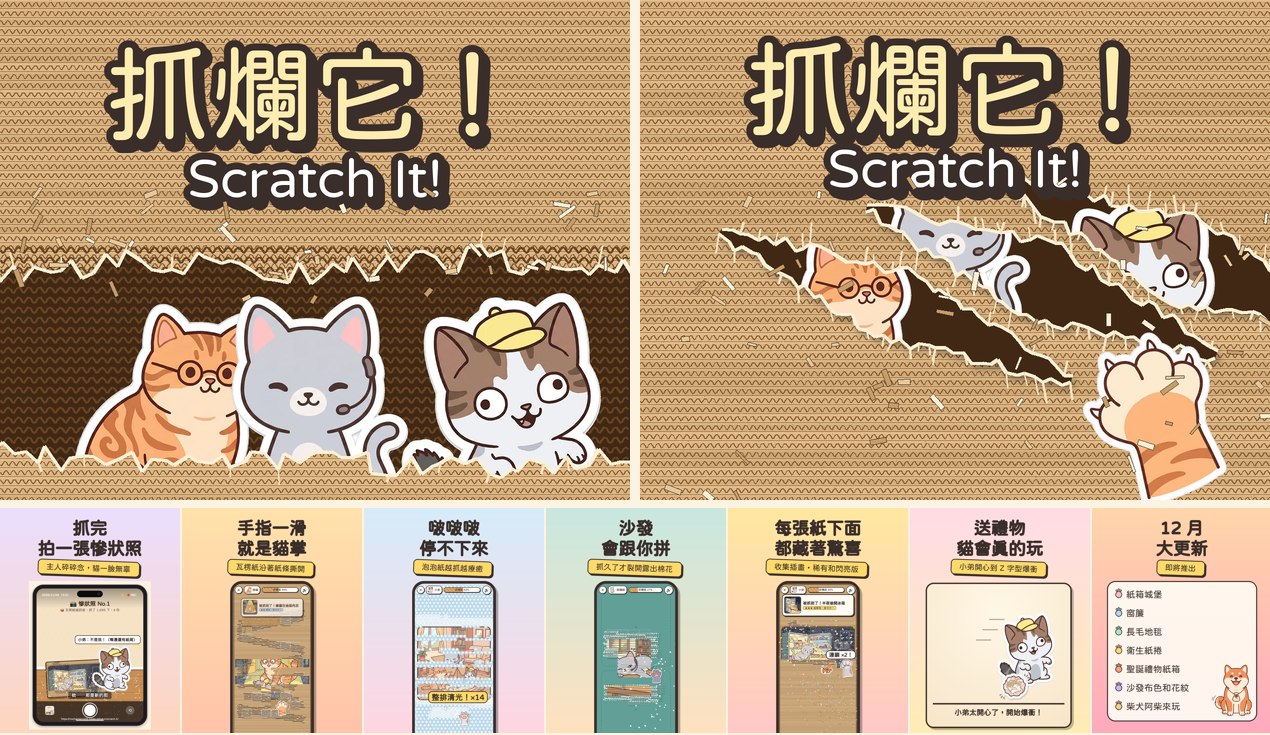
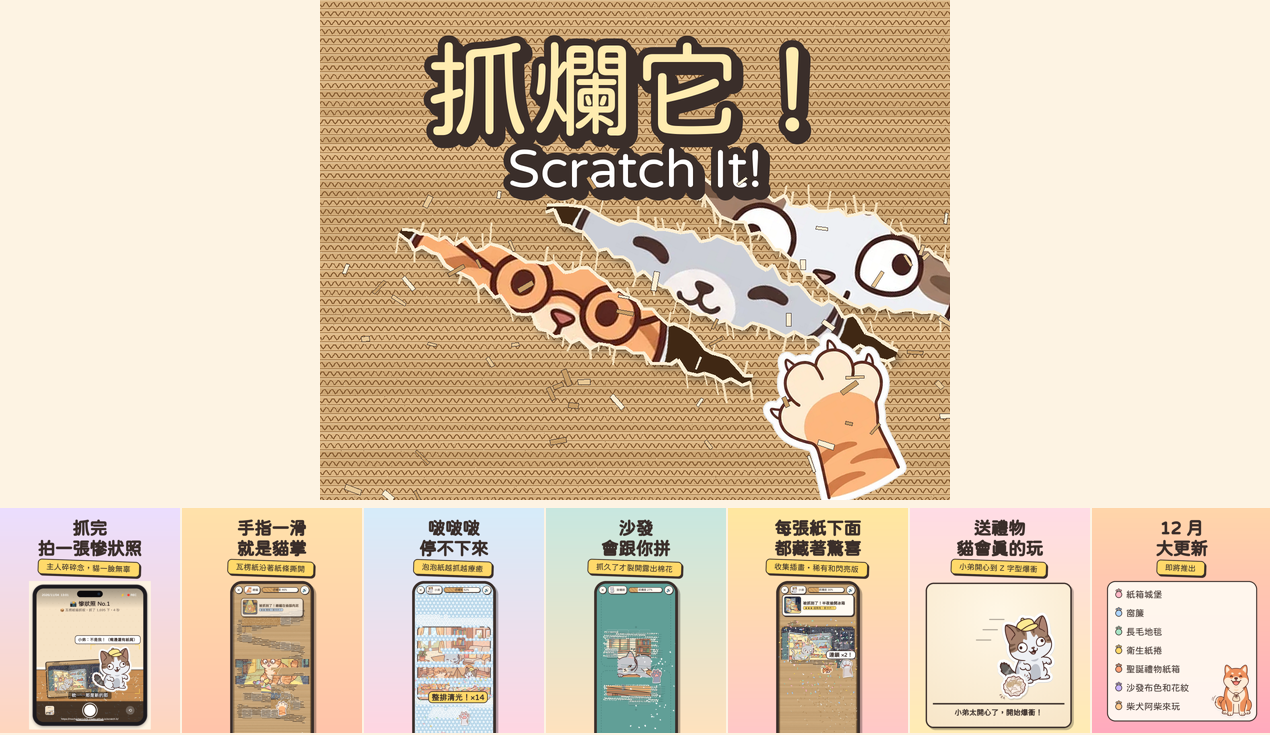
promo: final cover (claw slashes, cats peeking with only their eyes)
Claude-Session: https://claude.ai/code/session_01JwpXpdCFcD9wJhSf6baPfY

diff --git a/tools/promo/cover.py b/tools/promo/cover.py
@@ -1,5 +1,5 @@
 # 《抓爛它！》itch 封面兩版（1260×1000＋630×500）：整張是被抓破的瓦楞紙特寫，大字直接壓在紙上
-# A：正中間一道橫向大撕痕，三隻貓從裂縫探頭；B：三道斜斜的大爪痕，貓掌正在撕，貓從爪痕裡探頭
+# 定案 B 版（摩卡與貓貓小隊 11/4 選）：三道斜斜的大爪痕，三隻貓放很大、只從裂縫露出眼睛偷看，右下角貓掌正在撕。version_a 是沒選的橫向撕痕版，留著備用
 import os, math, random
 from PIL import Image, ImageDraw, ImageFont, ImageFilter
 HERE = os.path.dirname(os.path.abspath(__file__))
@@ -64,6 +64,21 @@ def paste_cat(im, name, cx, bottom, h, clip_poly=None, rot=0):
         layer.putalpha(Image.composite(layer.getchannel('A'), Image.new('L', im.size, 0), m))
     im.alpha_composite(layer)
 
+def paste_eyes(im, name, h, fx, fy, tx, ty, deg, clip_poly):
+    c = Image.open(ART + name + '.webp').convert('RGBA'); k = h / c.height
+    c = c.resize((int(c.width * k), int(h)), Image.LANCZOS)
+    # 拿掉貼紙外圈的白邊（不然裂縫邊緣會看到一條白線）
+    er = int(c.height * .028) | 1
+    c.putalpha(c.getchannel('A').filter(ImageFilter.MinFilter(er)).filter(ImageFilter.MinFilter(er)))
+    ex, ey = c.width * fx - c.width / 2, c.height * fy - c.height / 2   # 眼睛相對圖中心
+    r = c.rotate(deg, expand=True, resample=Image.BICUBIC); th = math.radians(deg)
+    nx, ny = ex * math.cos(th) + ey * math.sin(th), -ex * math.sin(th) + ey * math.cos(th)
+    px, py = tx - (r.width / 2 + nx), ty - (r.height / 2 + ny)
+    layer = Image.new('RGBA', im.size, (0, 0, 0, 0)); layer.paste(r, (int(px), int(py)), r)
+    m = Image.new('L', im.size, 0); ImageDraw.Draw(m).polygon(clip_poly, fill=255)
+    layer.putalpha(Image.composite(layer.getchannel('A'), Image.new('L', im.size, 0), m))
+    im.alpha_composite(layer)
+
 def title(im, cy, zh_y=None):
     d = ImageDraw.Draw(im)
     for s, f, y, fill in [("抓爛它！", font(210), cy, (255, 236, 176)), ("Scratch It!", font(108), (zh_y or cy + 225), (255, 255, 255))]:
@@ -111,11 +126,12 @@ def version_b():
         sh = Image.new('RGBA', im.size, (0, 0, 0, 0)); ImageDraw.Draw(sh).polygon([(x + 5, y + 9) for x, y in poly], fill=(0, 0, 0, 110)); im.alpha_composite(sh.filter(ImageFilter.GaussianBlur(8)))
         d = ImageDraw.Draw(im); d.polygon(poly, fill=(64, 40, 20))
         edges(d, top, rnd, True); edges(d, bot, rnd, False)
-    # 貓從三道爪痕探頭
-    for poly, name, h in zip(slashes, ['white_peek', 'orange_peek', 'white_peek'], [0, 0, 0]):
-        pass
-    for poly, (name, cx, by, hh) in zip(slashes, [('orange_sit', 330, 860, 400), ('grey_sit', 640, 720, 400), ('white_sit', 980, 790, 400)]):
-        paste_cat(im, name, cx, by, hh, clip_poly=poly)
+    # 貓放得很大，只從爪痕裂縫露出眼睛到鼻子（像在偷看）；貓頭跟著爪痕斜 22°
+    # (圖、高度、眼睛在圖上的位置 x/y 比例、眼睛要對準爪痕的哪一點 0～1)
+    for poly, (k, name, hh, fx, fy, t) in zip(slashes, [(0, 'orange_sit', 1150, .77, .29, .45), (1, 'grey_sit', 1050, .44, .375, .47), (2, 'white_sit', 980, .62, .41, .40)]):
+        x0, y0 = [(160, 470), (450, 420), (740, 380)][k]
+        tx, ty = x0 + math.cos(.38) * 760 * t, y0 + math.sin(.38) * 760 * t
+        paste_eyes(im, name, hh, fx, fy, tx, ty, -22, poly)
     d = ImageDraw.Draw(im)
     for poly in slashes:   # 重畫毛邊壓在貓上
         n = len(poly) // 2; edges(d, poly[:n], rnd, True); edges(d, poly[n:], rnd, False)
@@ -126,6 +142,6 @@ def version_b():
     return im
 
 os.makedirs(OUT, exist_ok=True)
-for tag, im in [('a', version_a()), ('b', version_b())]:
-    im = im.convert('RGB'); im.save(OUT + f'cover-{tag}.png'); im.resize((630, 500), Image.LANCZOS).save(OUT + f'cover-{tag}-630x500.png')
+for tag, im in [('b', version_b())]:
+    im = im.convert('RGB'); im.save(OUT + 'cover.png'); im.resize((630, 500), Image.LANCZOS).save(OUT + 'cover-630x500.png')   # 定案 B 版
 print('ok')

diff --git a/docs/itch-page.md b/docs/itch-page.md
@@ -106,7 +106,7 @@
 
 ## 宣傳素材（11/7～12 做；上架包 11/14 前放好，11/20 上架）
 
-已完成：`promo/itch/`——中英截圖各 7 張（1080×1350；順序：慘狀照、瓦楞紙、泡泡紙、沙發、驚喜插畫、小弟收禮爆衝、12 月大更新預告）、封面兩版讓摩卡與貓貓小隊挑（cover-a 橫向大撕痕＋三隻貓探頭、cover-b 三道爪痕＋貓掌，各有 1260×1000 和 630×500）。重做：`tools/promo/capture.mjs` 拍遊戲畫面 → `tools/promo/compose.py` 排截圖、`tools/promo/cover.py` 畫封面。試玩影片配樂用〈Kitchen Counter Zoomies〉（摩卡與貓貓小隊確認）
+已完成：`promo/itch/`——中英截圖各 7 張（1080×1350；順序：慘狀照、瓦楞紙、泡泡紙、沙發、驚喜插畫、小弟收禮爆衝、12 月大更新預告）、封面定案（摩卡與貓貓小隊選 B 版：三道爪痕、三隻貓從裂縫露出眼睛偷看、貓掌正在撕；cover.png 1260×1000、cover-630x500.png）。重做：`tools/promo/capture.mjs` 拍遊戲畫面 → `tools/promo/compose.py` 排截圖、`tools/promo/cover.py` 畫封面。試玩影片配樂用〈Kitchen Counter Zoomies〉（摩卡與貓貓小隊確認）
 
 | 項目 | 規格 | 做法 |
 |---|---|---|
